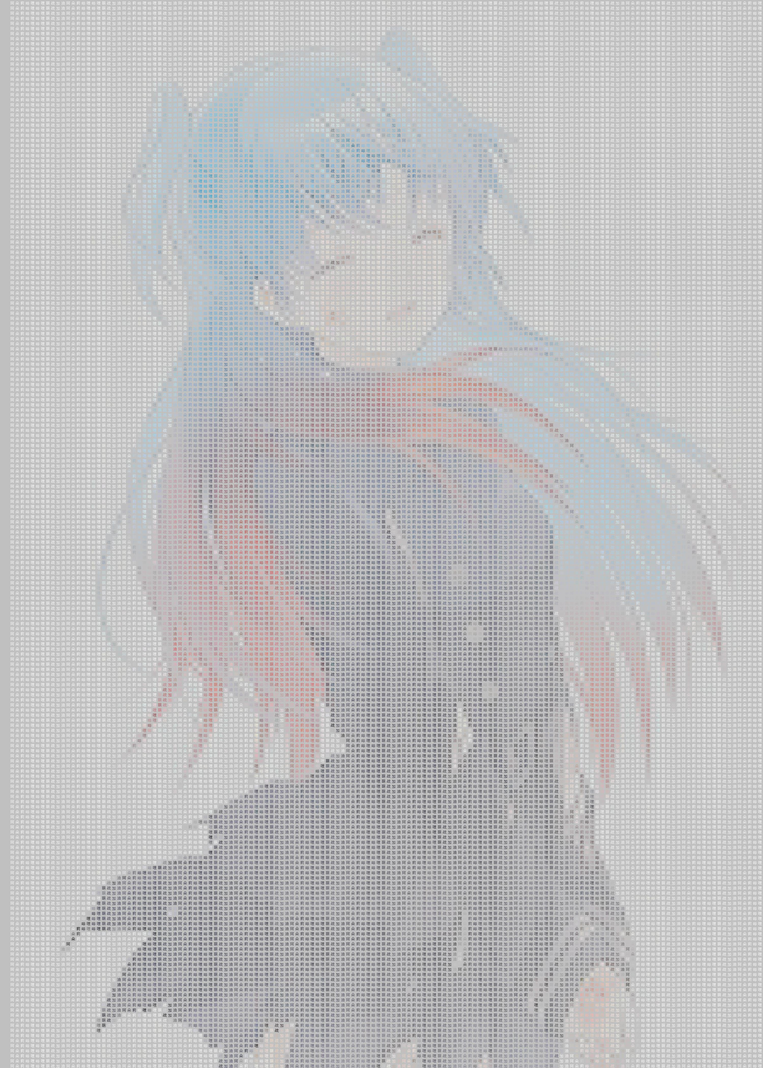
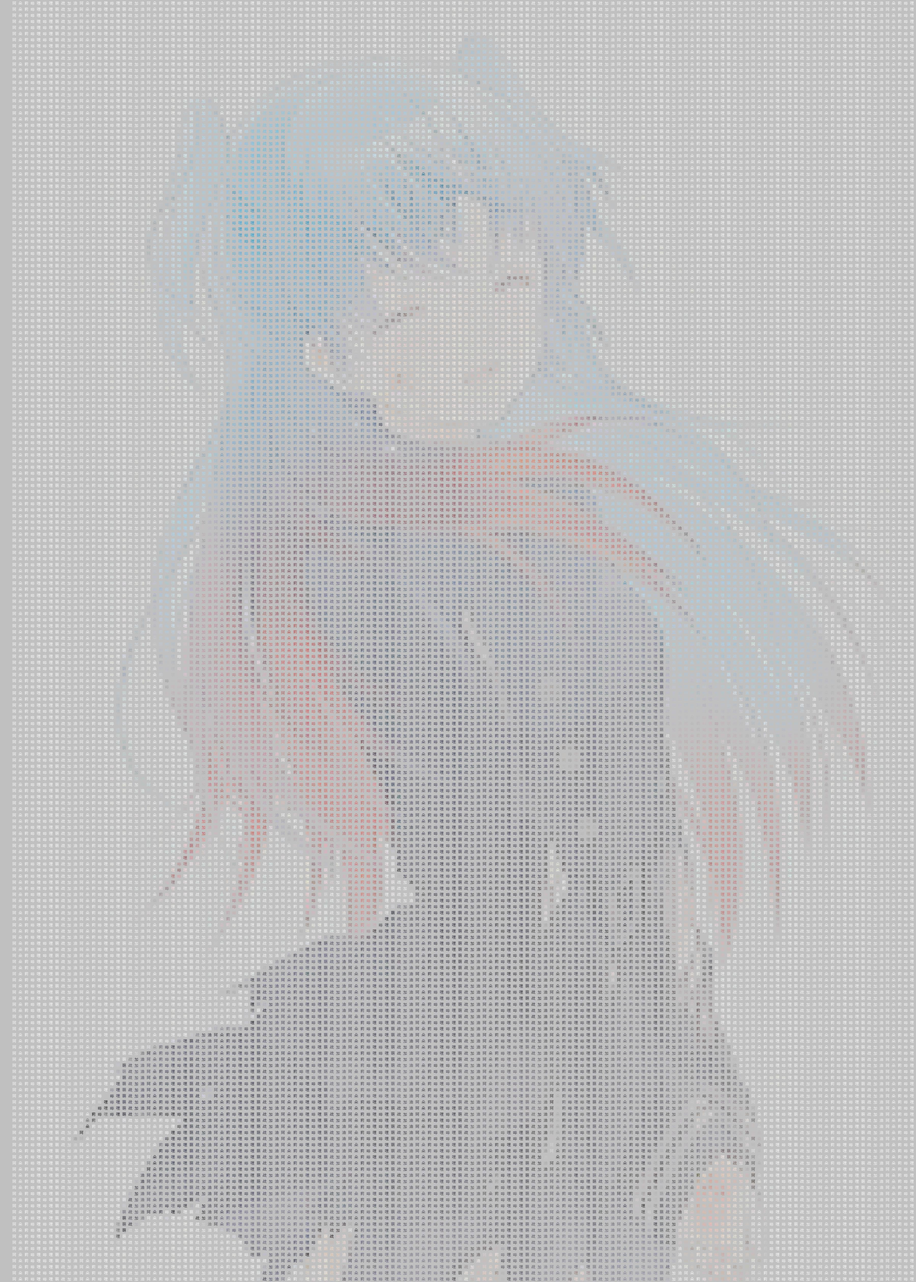
细节调整

Changed region(s): [[0.0, 0.0, 1.0, 1.0], [0.806, 0.4055, 0.837, 0.4367], [0.496, 0.0624, 0.527, 0.0936]]

diff --git a/1/2/PaChong.py b/1/2/PaChong.py
@@ -85,7 +85,7 @@ def numbers_to_strings(argument):
 
 
 def readPicture():
-    im = Image.open('7.jpg')
+    im = Image.open('1.jpg')
 
     img_data=im.getdata()
     img_array = list(img_data)
@@ -109,7 +109,43 @@ def readPicture():
             text = numbers_to_strings(i%11)
             draw.text((pos*large, j*large), text, font = font, fill=fill )
     
-    NewImage.save('test1.jpg', 'jpeg');
+    NewImage.save('test3.jpg', 'jpeg');
+    
+    
+def readPicture1():
+    im = Image.open('1.jpg')
+
+    img_data=im.getdata()
+    img_array = list(img_data)
+    
+    theAllImageLen = len(img_array)
+    theImageWide = im.getbbox()[2]
+    theImageLeath = im.getbbox()[3]
+    
+    print  theImageWide,theImageLeath # 134 ，187
+    
+    large = 10
+    
+    NewImage = Image.new( 'RGB', (theImageWide*large,theImageLeath*large),(192, 192, 192) )
+    font = ImageFont.truetype('STXIHEI.TTF', 16)
+    draw = ImageDraw.Draw(NewImage)
+    
+    k = -1
+    for j in range(theImageLeath):
+        for i in range(theImageWide):
+            k = k + 1
+            if (i%2 == 0) and (j%2 == 0):
+                pos = i+2 #八号字长度8，10 
+                fill = img_array[j*(theImageWide)+i]
+                text = numbers_to_strings(k%11)
+                draw.text((pos*large, j*large), text, font = font, fill=fill )
+            else:
+                k = k - 1
+                
+                
+    
+    NewImage.save('test4.jpg', 'jpeg');
+    
     
 if __name__=='__main__':   
     #main()
@@ -117,4 +153,4 @@ if __name__=='__main__':
     #for i in range(4):
     #    print i
     #print 5/4
-    readPicture()
+    readPicture1()
